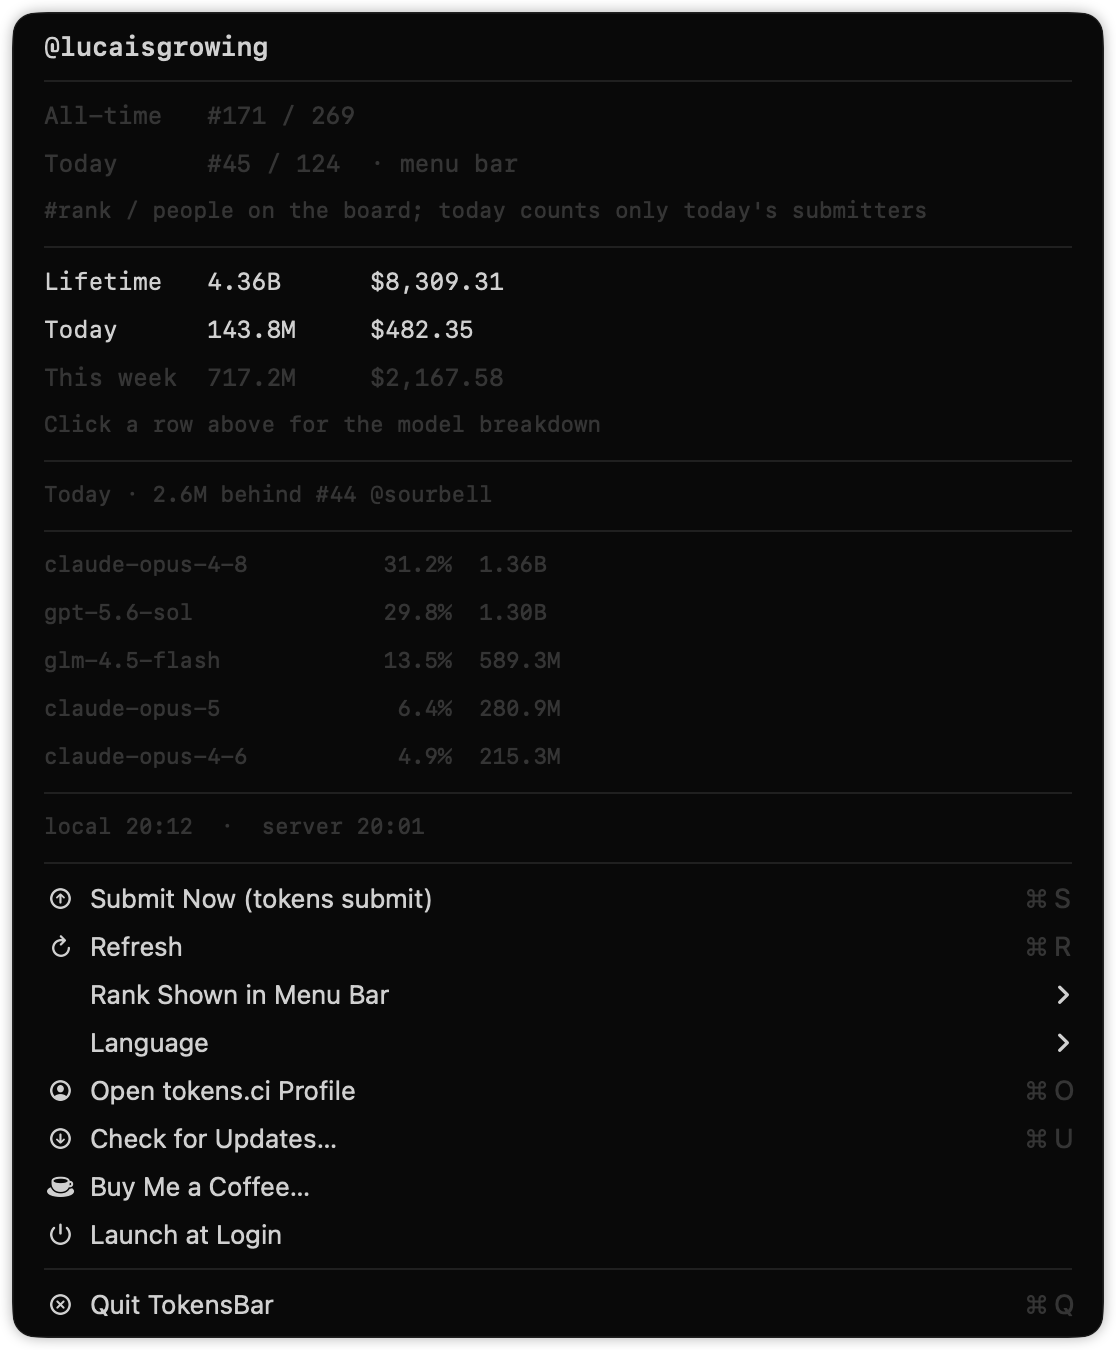
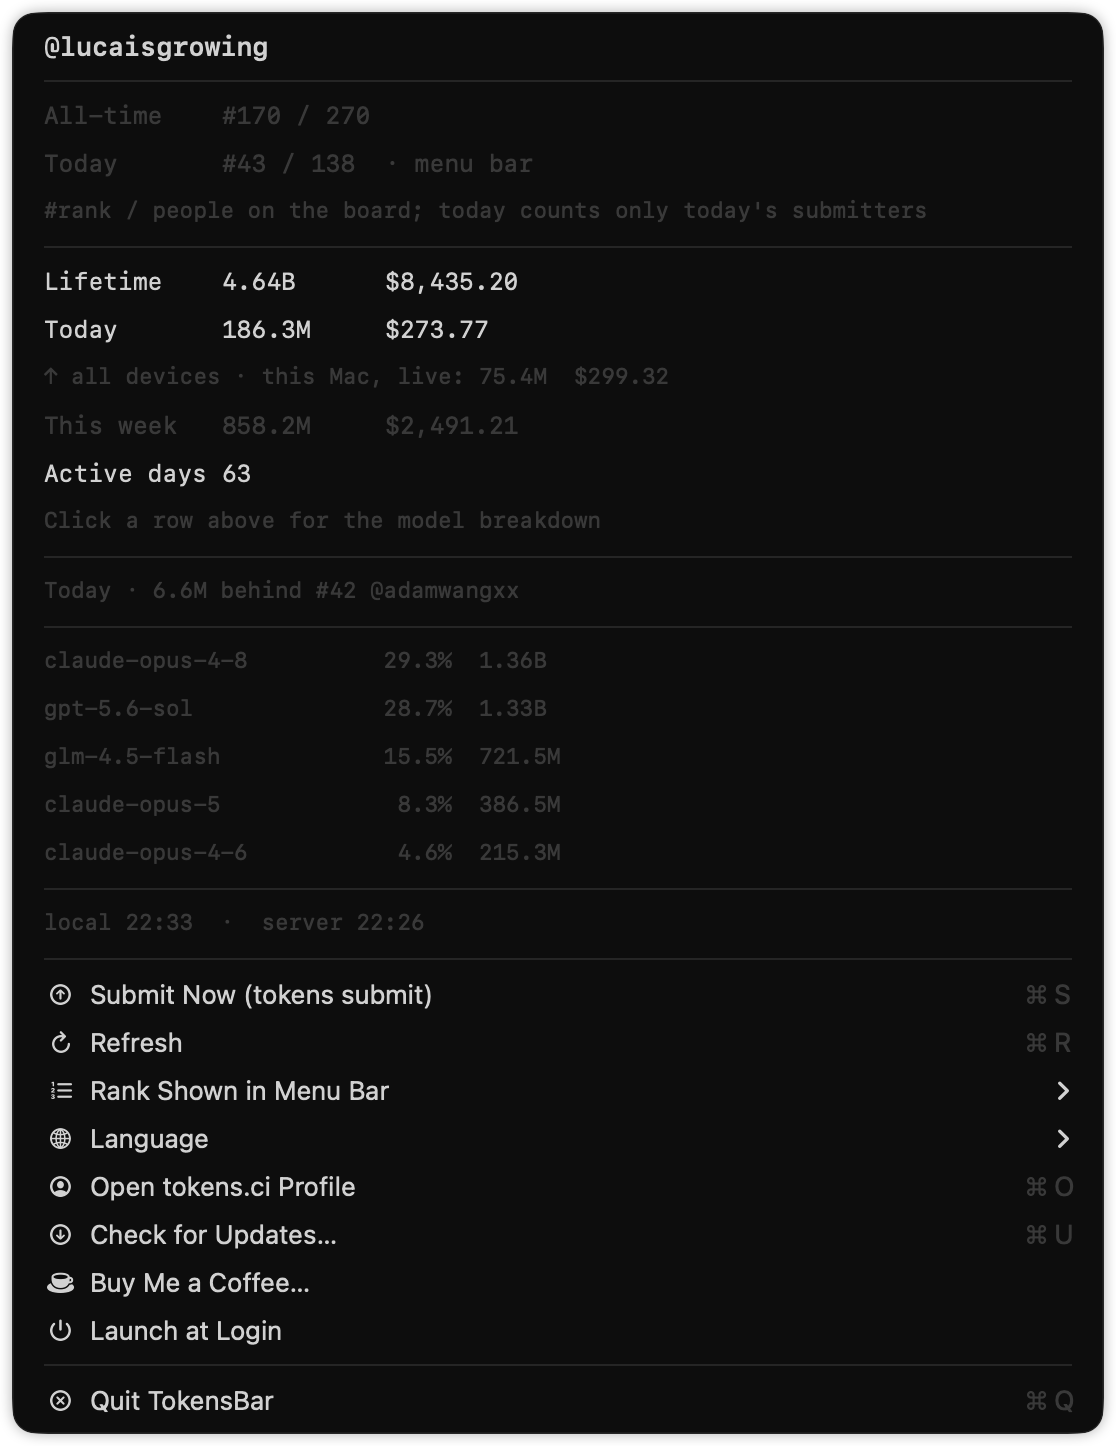
Take today's totals from the server so they match the daily rank
The Today row and the menu bar figure came from the local `tokens` scan while
the rank beside them came from the daily board, so a second machine on the
account made the two disagree — 3x apart on a day when the other device ran a
cache-heavy free model, while the cost barely moved.

Both now read the day's entry in the API's `contributions`, keyed by the GMT
day, which is the same figure the daily board ranks on. The local scan moves to
a dim line underneath, where it still shows what this machine has done since the
last submission. The today donut follows the same source, so the chart total
equals the row above it. Before the day's first submission there is no server
entry and the local scan stands in, as before.

diff --git a/Sources/main.swift b/Sources/main.swift
@@ -2,8 +2,9 @@
 //
 // Menu bar line:  ⚡ <today tokens>  #<rank>
 // Data sources:
-//   - tokens.ci REST API  → rank, lifetime totals, model split, neighbour gap
-//   - local `tokens` CLI  → today / this week, live (not yet submitted)
+//   - tokens.ci REST API  → rank, lifetime and today's totals (every device on
+//     the account, as of the last submission), model split, neighbour gap
+//   - local `tokens` CLI  → this week, and today on this machine, live
 //
 // Build: ./build.sh   Run: open TokensBar.app
 //
@@ -198,6 +199,22 @@ struct ServerStats {
     func standing(_ mode: RankMode) -> BoardStanding? {
         mode == .today ? today : allTime
     }
+
+    /// Today as the server has it: every device on the account, as of the last
+    /// submission. Keyed by the GMT day — the same day the daily board counts, so
+    /// the Today row and the daily rank never disagree. Nil until the first
+    /// submission of that day lands.
+    var todayDay: ContribDay? {
+        let key = dayFormatter.string(from: Date())
+        return contribs.first { dayFormatter.string(from: $0.date) == key }
+    }
+
+    /// Today's per-model split, for the donut chart.
+    var todayModels: [ModelSlice] {
+        (todayDay?.models ?? []).map {
+            ModelSlice(model: $0.name, tokens: $0.tokens, cost: $0.cost)
+        }
+    }
 }
 
 struct LocalStats {
@@ -209,6 +226,14 @@ struct LocalStats {
     var todayModels: [ModelSlice] = []
     var updatedAt: Date?
     var failed = false
+}
+
+/// Today's slices for the donut chart: the server's all-device split, so the
+/// chart agrees with the Today row, falling back to this machine's scan before
+/// the day's first submission.
+func todayChartModels(_ local: LocalStats, _ server: ServerStats?) -> [ModelSlice] {
+    let fromServer = server?.todayModels ?? []
+    return fromServer.isEmpty ? local.todayModels : fromServer
 }
 
 // MARK: - JSON helpers
@@ -533,8 +558,16 @@ struct Presenter {
     let serverFailed: Bool
     let transient: String?
 
+    /// The server's figure for today — all devices, as of the last submission.
+    /// Preferred everywhere over the local scan so the numbers agree with the
+    /// daily rank and with the site; the local scan is still shown alongside,
+    /// because it is live.
+    private var serverToday: ContribDay? { server?.todayDay }
+
     var title: String {
-        var parts = [local.failed ? "—" : fmtTokens(local.todayTokens)]
+        var parts: [String] = []
+        if let d = serverToday { parts.append(fmtTokens(d.tokens)) }
+        else { parts.append(local.failed ? "—" : fmtTokens(local.todayTokens)) }
         if let st = server?.standing(rankMode) {
             parts.append(st.rank > 0 ? "\(rankMode.badge)\(st.rank)" : "\(rankMode.badge)—")
         } else if serverFailed {
@@ -544,8 +577,10 @@ struct Presenter {
     }
 
     var tooltip: String {
-        var bits = [local.failed ? t("tooltip.localFailed")
-                                 : t("tooltip.today", fmtExact(local.todayTokens))]
+        var bits: [String] = []
+        if let d = serverToday { bits.append(t("tooltip.todayAll", fmtExact(d.tokens))) }
+        bits.append(local.failed ? t("tooltip.localFailed")
+                                 : t("tooltip.todayLocal", fmtExact(local.todayTokens)))
         if let s = server {
             if let a = s.allTime, a.rank > 0 {
                 bits.append(t("tooltip.rankAllTime", a.rank, a.totalUsers))
@@ -595,11 +630,26 @@ struct Presenter {
             out.append(.note(t("state.loading")))
         }
 
+        // Today is the server's all-device figure, so this row, the daily rank
+        // and the site all say the same thing. Before the day's first submission
+        // there is no server figure yet and the local scan stands in.
+        if let d = serverToday {
+            out.append(.row(t("row.today"), fmtTokens(d.tokens), fmtMoney(d.cost), .chart(.today)))
+        } else if !local.failed {
+            out.append(.row(t("row.today"), fmtTokens(local.todayTokens),
+                            fmtMoney(local.todayCost), .chart(.today)))
+        }
+
         if local.failed {
             out.append(.note(t("state.localFailed")))
         } else {
-            out.append(.row(t("row.today"), fmtTokens(local.todayTokens),
-                            fmtMoney(local.todayCost), .chart(.today)))
+            // The live counterpart: this machine only, including work not yet
+            // submitted. Kept visible because the row above can only move when a
+            // submission lands.
+            if serverToday != nil {
+                out.append(.note(t("row.todayLocal", fmtTokens(local.todayTokens),
+                                   fmtMoney(local.todayCost))))
+            }
             out.append(.row(t("row.week"), fmtTokens(local.weekTokens),
                             fmtMoney(local.weekCost), nil))
         }
@@ -712,6 +762,10 @@ final class Controller: NSObject, NSMenuDelegate {
             if let models = self.server?.models {
                 ChartPopover.shared.update(scope: .lifetime, data: models.map(Self.datum))
             }
+            // Today's split comes from the server too, so a server refresh moves it.
+            ChartPopover.shared.update(
+                scope: .today,
+                data: todayChartModels(self.local, self.server).map(Self.datum))
             if let st = self.server, let from = st.contribStart, let to = st.contribEnd {
                 ContribPopover.shared.update(days: st.contribs, start: from, end: to)
             }
@@ -741,8 +795,9 @@ final class Controller: NSObject, NSMenuDelegate {
                     self.local.updatedAt = Date()
                 }
                 self.render()
-                ChartPopover.shared.update(scope: .today,
-                                                   data: self.local.todayModels.map(Self.datum))
+                ChartPopover.shared.update(
+                    scope: .today,
+                    data: todayChartModels(self.local, self.server).map(Self.datum))
             }
         }
     }
@@ -1014,7 +1069,7 @@ final class Controller: NSObject, NSMenuDelegate {
         case let which:
             let isToday = which == "today"
             let scope: ChartScope = isToday ? .today : .lifetime
-            let models = isToday ? local.todayModels : (server?.models ?? [])
+            let models = isToday ? todayChartModels(local, server) : (server?.models ?? [])
             ChartPopover.shared.show(scope: scope, data: models.map(Self.datum),
                                      from: statusItem.button)
         }
@@ -1106,7 +1161,7 @@ func runDump() -> Never {
     }
 
     // The same slices the donut chart would draw.
-    for (scope, models) in [(ChartScope.today, local.todayModels),
+    for (scope, models) in [(ChartScope.today, todayChartModels(local, server)),
                             (ChartScope.lifetime, server?.models ?? [])] {
         print("\n\(t(scope.titleKey)):")
         for metric in [ChartMetric.tokens, .cost] {
@@ -1132,7 +1187,7 @@ func runChartPNG(path: String) -> Never {
     let args = CommandLine.arguments
     let scope: ChartScope = args.contains("lifetime") ? .lifetime : .today
     let metric: ChartMetric = args.contains("cost") ? .cost : .tokens
-    let models = scope == .today ? local.todayModels : (server?.models ?? [])
+    let models = scope == .today ? todayChartModels(local, server) : (server?.models ?? [])
     let data = models.map { ChartDatum(label: $0.model, tokens: $0.tokens, cost: $0.cost) }
     let dark = args.contains("dark")
     // `hover N` renders the highlight state for slice N; `reveal F` freezes the

diff --git a/Sources/Strings.swift b/Sources/Strings.swift
@@ -41,14 +41,18 @@ enum L10n {
 
         "row.lifetime": ("Lifetime", "累计"),
         "row.today": ("Today", "今日"),
+        // Sits under the Today row: that row is every device as of the last
+        // submission, this one is this machine right now.
+        "row.todayLocal": ("↑ all devices · this Mac, live: %1$@  %2$@",
+                           "↑ 全部设备累计 · 本机实时 %1$@  %2$@"),
         "row.week": ("This week", "本周"),
 
         "state.notLoggedIn": ("Not signed in", "未登录"),
         "state.serverFailed": ("Lifetime   server read failed (proxy? tokens.ci unreachable?)",
                                "累计   服务端读取失败（检查代理 / tokens.ci 可达性）"),
         "state.loading": ("Lifetime   loading…", "累计   载入中…"),
-        "state.localFailed": ("Today   local scan failed (tokens CLI not found?)",
-                              "今日   本地扫描失败（找不到 tokens CLI？）"),
+        "state.localFailed": ("This Mac   local scan failed (tokens CLI not found?)",
+                              "本机   本地扫描失败（找不到 tokens CLI？）"),
 
         "gap.behind": ("%1$@ · %2$@ behind #%3$d @%4$@", "%1$@ 距 #%3$d @%4$@ 还差 %2$@"),
         "gap.first": ("%@ · you are #1", "%@ 已经是第 1 名"),
@@ -105,7 +109,8 @@ enum L10n {
 
         "tooltip.localFailed": ("tokens CLI not found, or the local scan failed",
                                 "找不到 tokens CLI 或本地扫描失败"),
-        "tooltip.today": ("%@ tokens today", "今日 %@ tokens"),
+        "tooltip.todayAll": ("%@ tokens today, all devices", "今日 %@ tokens（全部设备）"),
+        "tooltip.todayLocal": ("%@ tokens on this Mac, live", "本机实时 %@ tokens"),
         "tooltip.rankAllTime": ("All-time board: #%1$d of %2$d", "累计榜 第 %1$d / %2$d 名"),
         "tooltip.rankToday": ("Today's board: #%1$d of %2$d", "今日榜 第 %1$d / %2$d 名"),
         "tooltip.rankTodayNone": ("Today's board: unranked", "今日榜 未上榜"),

diff --git a/README.md b/README.md
@@ -33,6 +33,8 @@ menu bar:  ⚡ 12.4M  #87       ← all-time rank
      or:   ⚡ 12.4M  D#31      ← today's rank
 ```
 
+The token figure is today's total for the whole account, the same number the site shows, so it lines up with the rank beside it. Hover the icon for this machine's live figure as well.
+
 English and 简体中文 are both built in — switch from the Language submenu (English is the default), or set `language` in the config file.
 
 ## Model distribution
@@ -40,7 +42,7 @@ English and 简体中文 are both built in — switch from the Language submenu 
 Clicking the **Lifetime** or **Today** row opens a popover under the menu bar icon with a donut chart of the per-model split, and a Tokens / Cost toggle:
 
 - **Lifetime** comes from the API's `modelUsage`
-- **Today** comes from the local CLI scan, so it is live rather than waiting on the next submission
+- **Today** comes from the day's entry in the API's `contributions`, so it covers every device on the account — the same figure the Today row shows. Before the day's first submission it falls back to the local scan.
 
 The top five models get their own slice and the rest fold into "Others" — a donut stops being readable much past six segments. With one or two models it draws a single 100% bar instead. Light and dark mode each get their own colour steps, chosen for contrast against that surface and checked for colour-blind separation.
 
@@ -172,13 +174,13 @@ The "Launch at Login" checkbox in the menu does the same thing as `--set-login`.
 
 Two data sources:
 
-- **Ranks, lifetime totals and the model split** — the public read-only endpoints `GET /api/users/<name>` and `GET /api/leaderboard?period=all|today`. No credentials are sent.
-- **Today and this week** — the local CLI, `tokens --today --json` and `tokens --week --json`, so these are live instead of waiting for the next submission.
+- **The API** — the public read-only endpoints `GET /api/users/<name>` and `GET /api/leaderboard?period=all|today`. Both ranks, the lifetime totals, the model split, the contributions grid, and **today's totals**. No credentials are sent.
+- **The local CLI** — `tokens --today --json` and `tokens --week --json`. This week, and today on this machine.
 
 Two things worth knowing:
 
 - Percentages in the dropdown are a share of tokens, recomputed locally. The API's own percentages are a share of cost, so the two can differ.
-- Today in the dropdown is this machine's local scan, while the daily board rank is server-side and sums every device on the account. With more than one machine the local figure reads lower.
+- The **Today** row is the server's figure, so it agrees with the daily rank and with the site: every device on the account, as of the last submission. The dim line under it is this machine's live scan. The two differ in both directions — another machine's usage is in the first but not the second, and anything done since the last submission is in the second but not the first. The token gap can be far larger than the cost gap, because a cache-heavy free model contributes millions of tokens for almost nothing.
 
 If the API cannot be reached, the dropdown reports that the server read failed and keeps the last figures it had.
 
